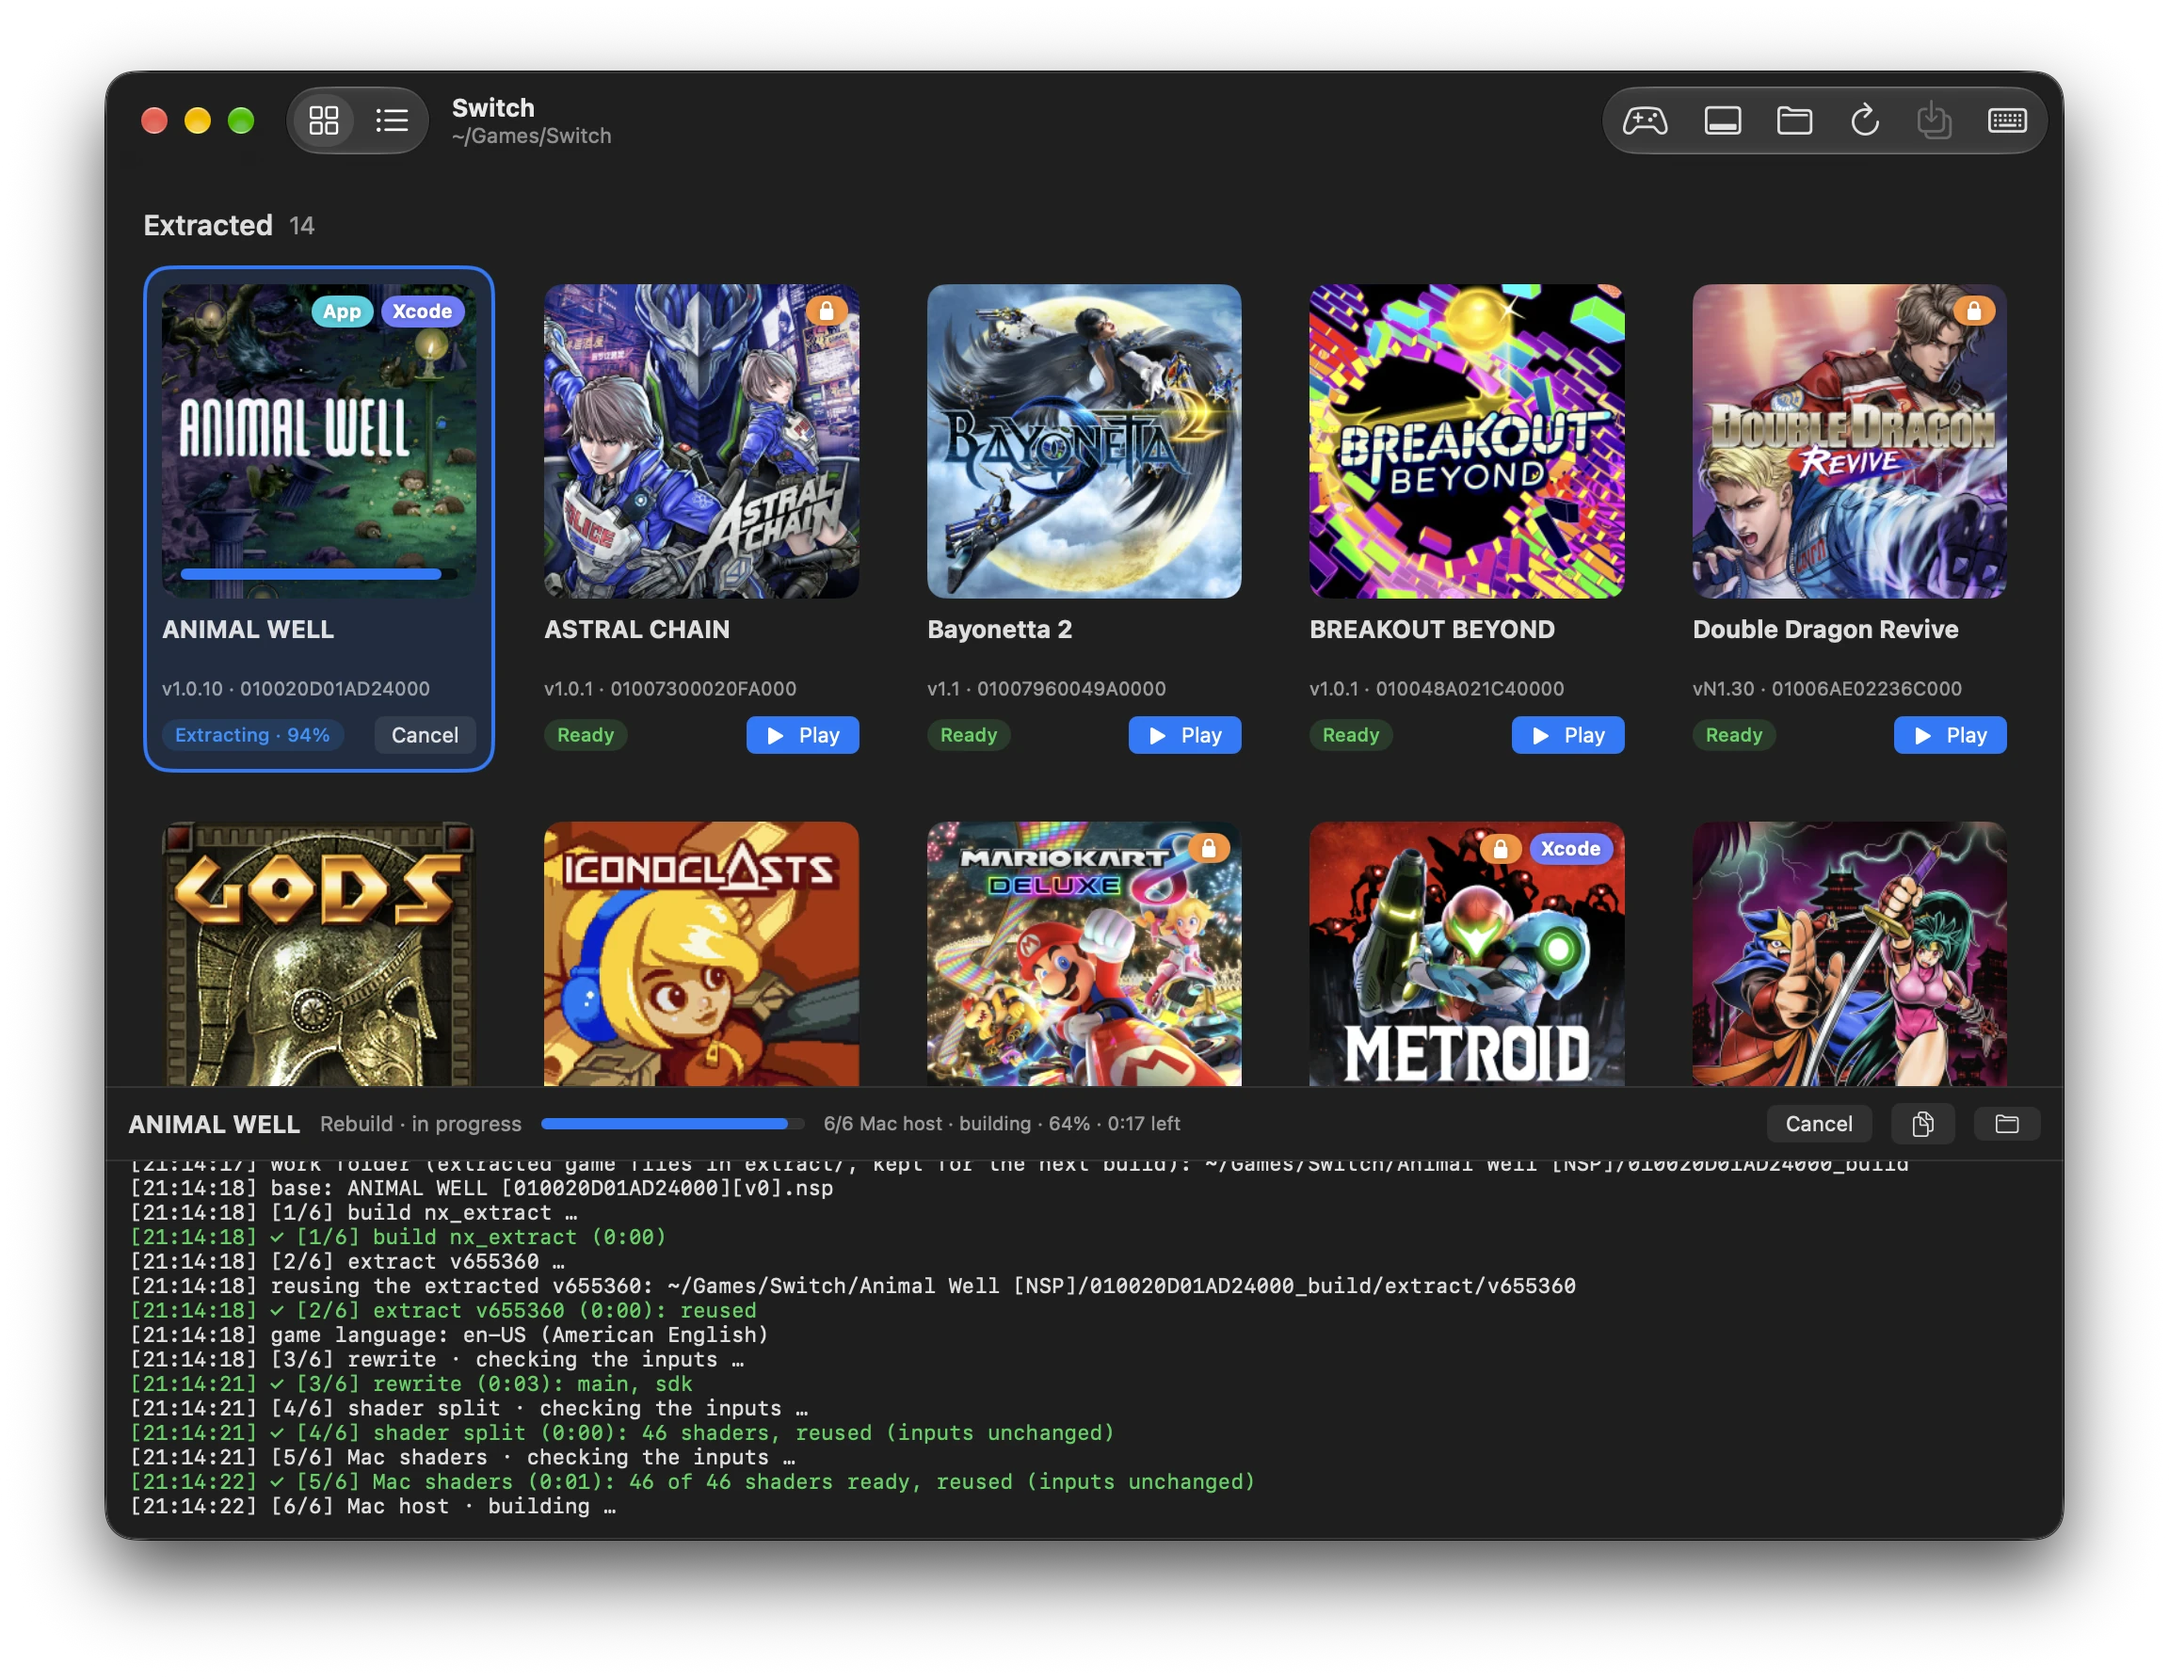
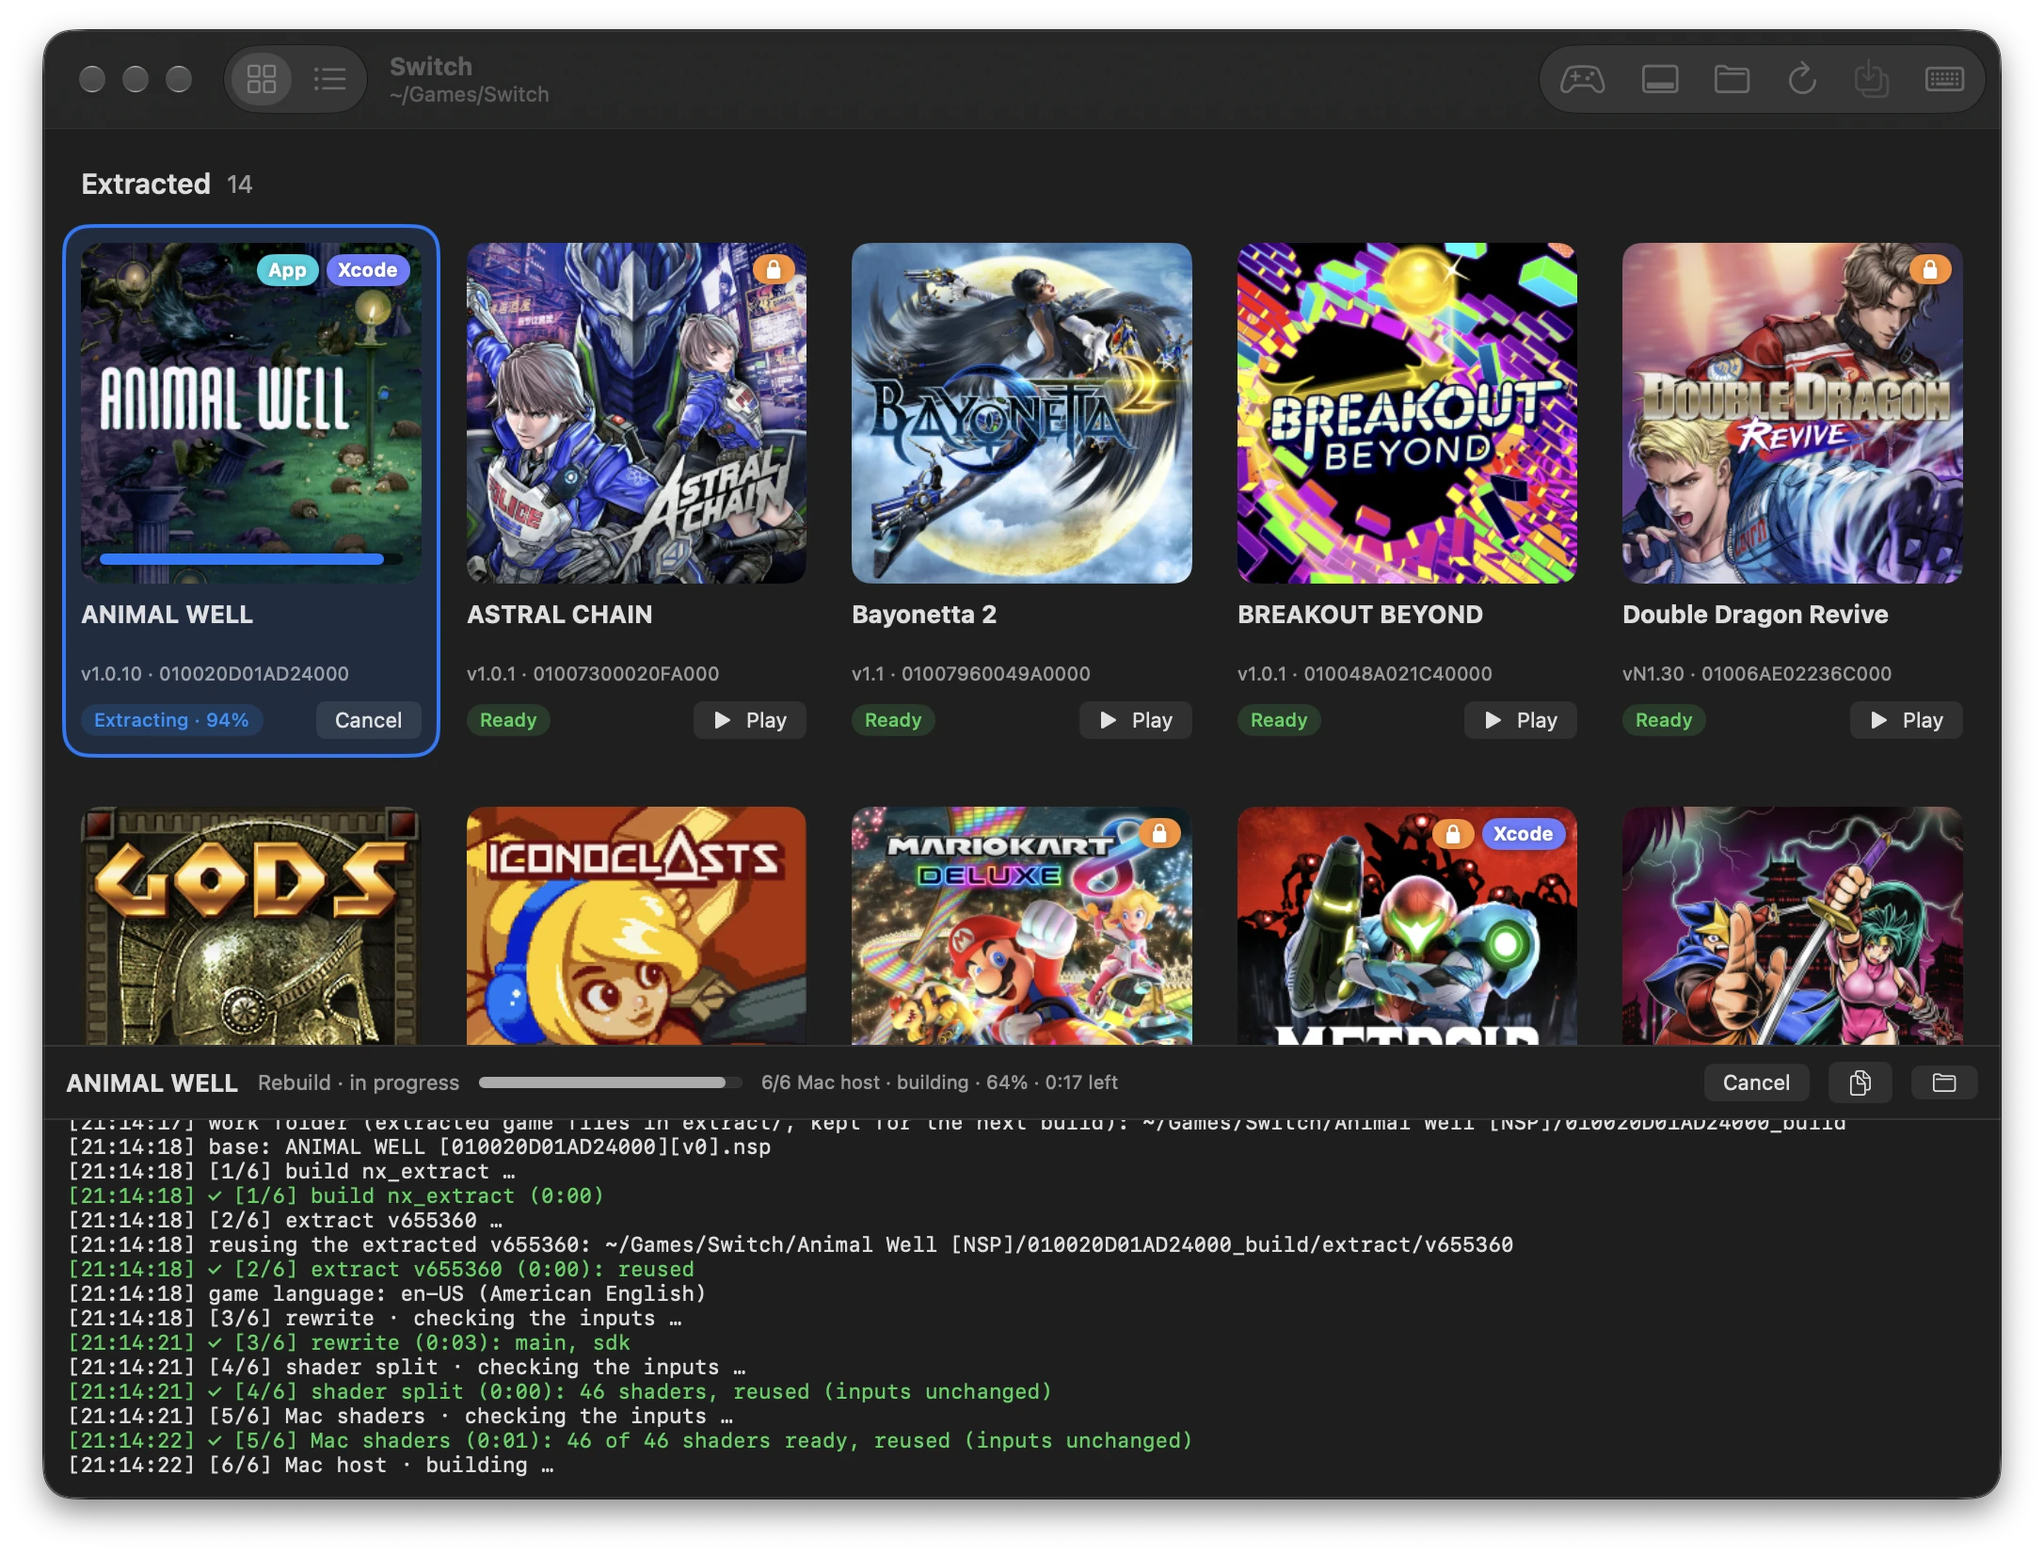
Line card artwork up with the section titles
The card's inset for its selection highlight came on top of the grid's margin, so the artwork started 10 points right of the titles and the gaps between artworks didn't match the margin. The highlight now reaches into the margin instead, as in Photos.

diff --git a/Packages/NXPlayKit/Sources/NXPlayKit/Views/GameGrid.swift b/Packages/NXPlayKit/Sources/NXPlayKit/Views/GameGrid.swift
@@ -4,8 +4,17 @@ import SwiftUI
 struct GameGrid: View {
     @Environment(Library.self) private var library
 
+    /// A card pads its content by `cardInset` for its selection highlight: the grid sits that much further out, so the
+    /// artwork lines up with the section title (the highlight reaches into the margin, as in Photos), and the cards'
+    /// spacing is what's left of the gap between two artworks.
+    static let margin = 20.0
+    static let cardInset = 10.0
+    static let artworkGap = 24.0
+
     private let columns = [
-        GridItem(.adaptive(minimum: 180, maximum: 220), spacing: 16, alignment: .top)
+        GridItem(
+            .adaptive(minimum: 180, maximum: 220), spacing: artworkGap - 2 * cardInset,
+            alignment: .top)
     ]
 
     var body: some View {
@@ -29,7 +38,8 @@ struct GameGrid: View {
                             section("Not Extracted", remaining, extractAll: true)
                         }
                     }
-                    .padding(20)
+                    .padding(.vertical, Self.margin)
+                    .padding(.horizontal, Self.margin - Self.cardInset)
                 }
             }
             .background(.background)
@@ -53,6 +63,7 @@ struct GameGrid: View {
                         .disabled(library.extractableGames.isEmpty)
                 }
             }
+            .padding(.horizontal, Self.cardInset)
             LazyVGrid(columns: columns, alignment: .leading, spacing: 16) {
                 ForEach(games) { game in
                     GameCard(

diff --git a/Packages/NXPlayKit/Sources/NXPlayKit/Views/GameCard.swift b/Packages/NXPlayKit/Sources/NXPlayKit/Views/GameCard.swift
@@ -27,7 +27,7 @@ struct GameCard: View {
             }
             GameStatus(game: game, job: job)
         }
-        .padding(10)
+        .padding(GameGrid.cardInset)
         .background(
             RoundedRectangle(cornerRadius: 14).fill(
                 isSelected ? Color.accentColor.opacity(0.15) : .clear)
